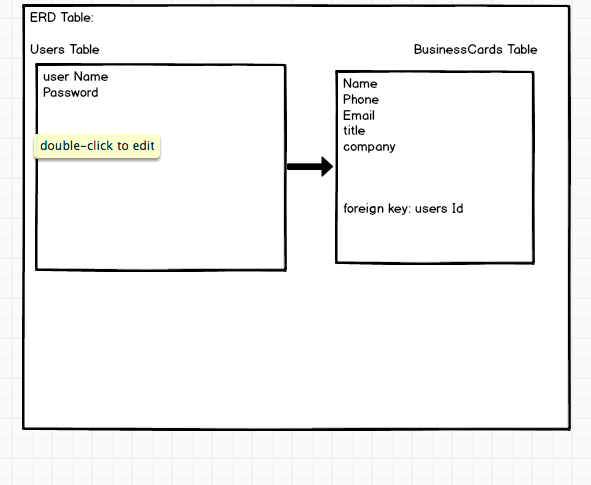
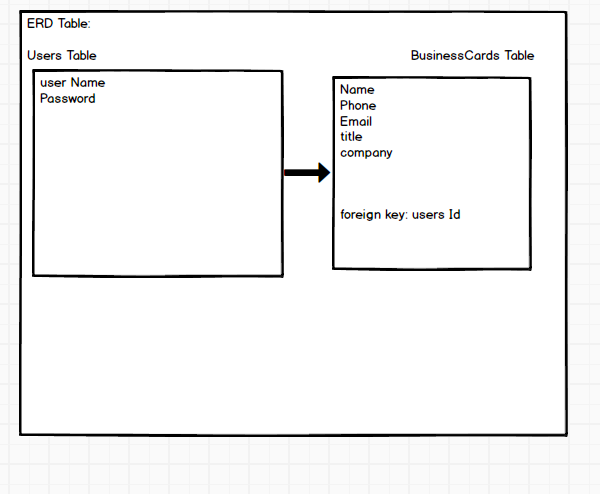
working on readme file and adding wireframes

Changed region(s): [[0.0305, 0.0, 0.9746, 0.8969]]

diff --git a/README.md b/README.md
@@ -12,4 +12,10 @@ The purpose of business card exchange is to conviniently organize the contacts y
 6) Bootstrap
 
 ## Wireframes:
-![]()
+![](https://github.com/arifkhan36/business-card-exchange/blob/master/app/assets/images/wireframe-1.png)
+![](https://github.com/arifkhan36/business-card-exchange/blob/master/app/assets/images/wireframes-2.png)
+![](https://github.com/arifkhan36/business-card-exchange/blob/master/app/assets/images/wireframes-3.png)
+![](https://github.com/arifkhan36/business-card-exchange/blob/master/app/assets/images/wireframes-4.png)
+
+## ERD table:
+
